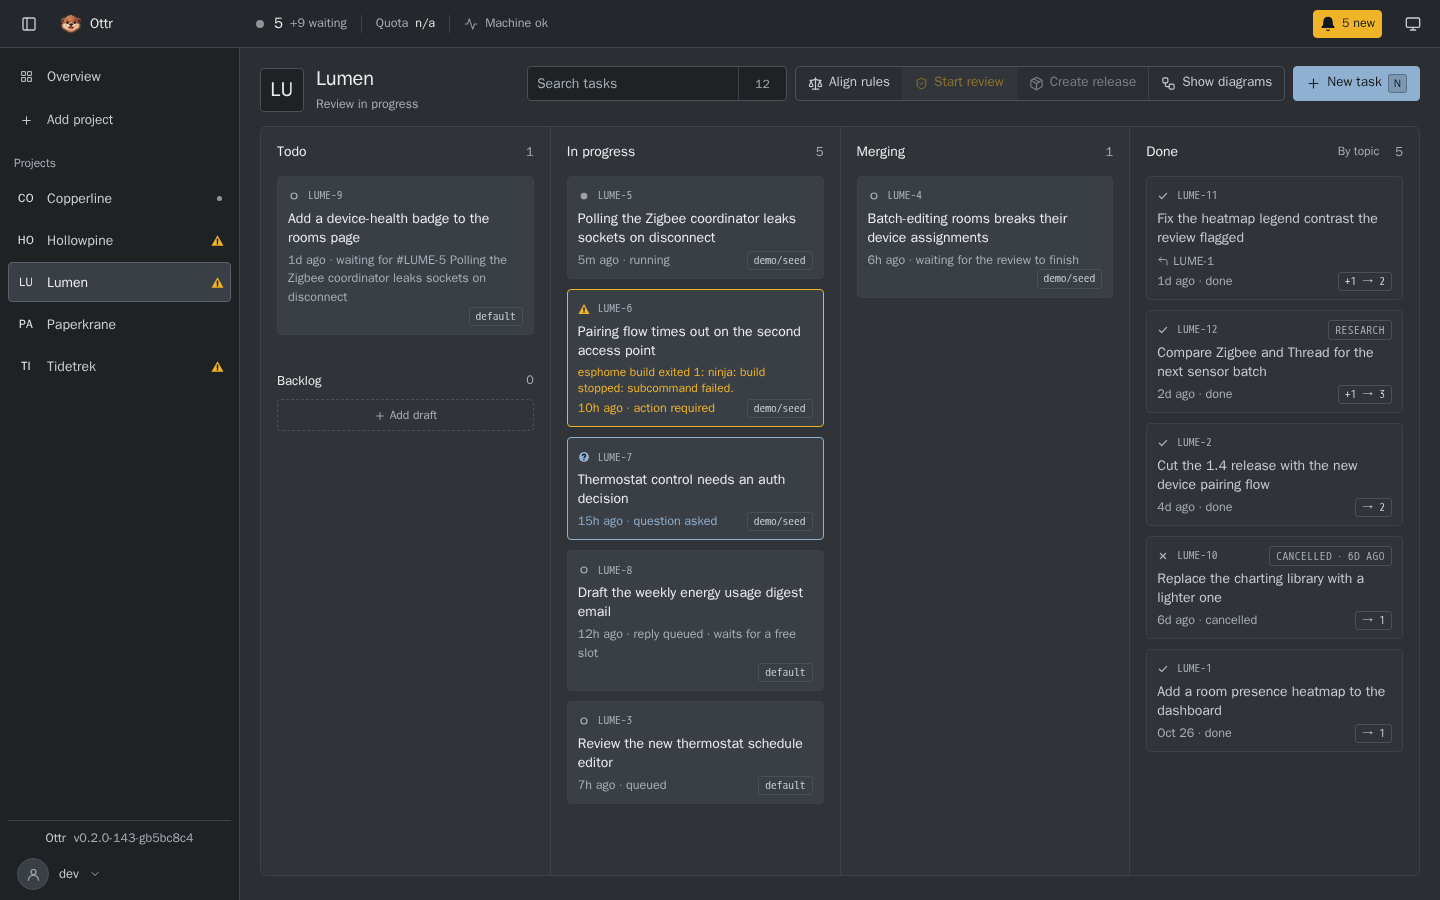
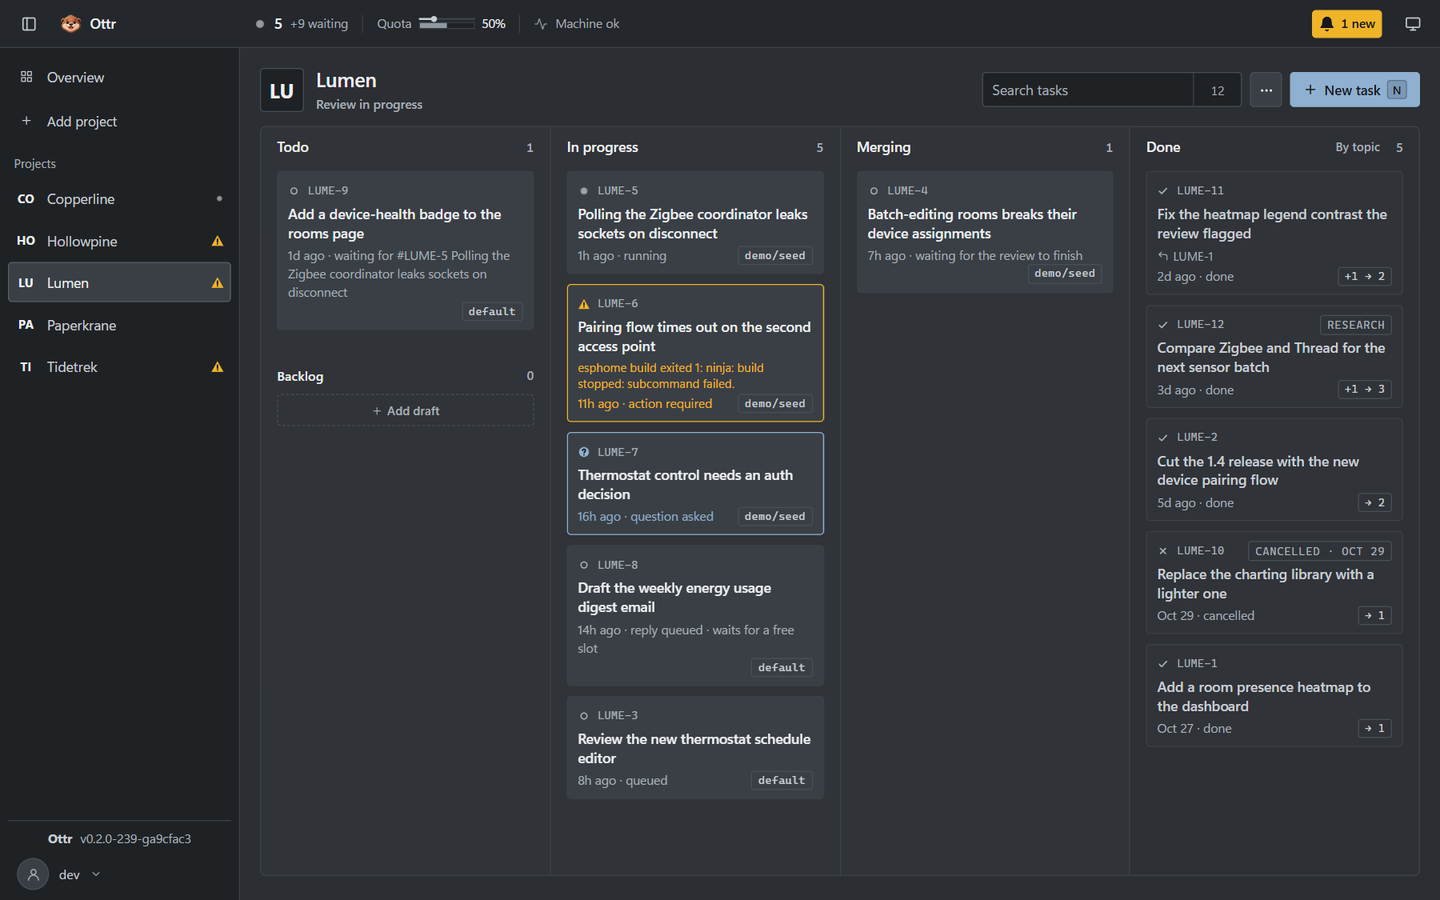
feat: move the project actions into a "more" menu
The project header holds the search, a "..." menu and New task. Start
review stays in the bar only while a review is overdue. Column titles
sit 16px from the top edge. The README screenshot shows the new header.

diff --git a/src/ui/app.tsx b/src/ui/app.tsx
@@ -2951,86 +2951,102 @@ export function ProjectBoard({
 							{q === "" ? boardTotal : `${shown.length}/${boardTotal}`}
 						</span>
 					</span>
-					<div className="seg">
-						{project.hasRules && (
+					{/* Only an overdue review stays out, as the alarm nudge; every other action waits in the menu. */}
+					{project.archReview?.due && !project.archReview.running && (
+						<button
+							type="button"
+							className="arch-start"
+							title="Pick a model and create a task that reviews the whole repo, the same review a release runs"
+							onClick={() => setShowReview(true)}
+						>
+							<Icon name="shield-check" size={13} />
+							Start review
+						</button>
+					)}
+					{(project.hasRules || !project.gitless) && (
+						<>
 							<button
 								type="button"
-								className="ghost"
-								aria-label="Align rules"
-								onClick={async () =>
-									(await confirmDialog(
-										"Align rules? This creates a task that fixes AGENTS.md rules that contradict the tracker's pipeline.",
-										{ ok: "Create task" },
-									)) && interview("/interview", { fix: true })
-								}
-								title="Fix AGENTS.md rules that contradict the tracker's pipeline (release-after-commit and the like)"
+								className="project-more"
+								popoverTarget="project-more"
+								aria-label="More project actions"
+								title="More project actions"
 							>
-								<Icon name="scale" />
-								<span className="seg-label">Align rules</span>
+								<Icon name="more" />
 							</button>
-						)}
-						{project.archReview?.due || project.archReview?.running ? (
-							<button
-								type="button"
-								className="arch-start"
-								aria-label="Start review"
-								disabled={project.archReview.running}
-								title={
-									project.archReview.running
-										? "A review is still open: one review at a time"
-										: "Pick a model and create a task that reviews the whole repo, the same review a release runs"
-								}
-								onClick={() => setShowReview(true)}
+							{/* biome-ignore lint/a11y/useKeyWithClickEvents lint/a11y/noStaticElementInteractions: the items are buttons; a click on one runs it, then this closes the menu */}
+							<div
+								id="project-more"
+								popover="auto"
+								className="project-menu"
+								onClick={(e) => e.currentTarget.hidePopover()}
 							>
-								<Icon name="shield-check" size={13} />
-								<span className="seg-label">Start review</span>
-							</button>
-						) : (
-							project.archReview !== null &&
-							project.archReview.delta > 0 && (
-								<button
-									type="button"
-									className="arch-start quiet"
-									aria-label="Start review"
-									title={`${project.archReview.delta} commits on ${project.target} since the last review — start one early, the same review a release runs`}
-									onClick={() => setShowReview(true)}
-								>
-									<Icon name="shield-check" size={13} />
-									<span className="seg-label">Start review</span>
-								</button>
-							)
-						)}
-						{!project.gitless && (
-							<button
-								type="button"
-								className="ghost"
-								aria-label="Create release"
-								// Same guard as Review: a release runs that review (releaseBlocked).
-								disabled={project.archReview?.running}
-								onClick={() => setShowRelease(true)}
-								title={
-									project.archReview?.running
-										? "A release or review is still open: one at a time"
-										: "Release all new commits"
-								}
-							>
-								<Icon name="package" />
-								<span className="seg-label">Create release</span>
-							</button>
-						)}
-						{!project.gitless && (
-							<button
-								type="button"
-								className="ghost"
-								aria-label="Show diagrams"
-								onClick={() => setShowDiagrams(true)}
-								title="Show docs/how-it-works.md with its Mermaid diagrams, as committed on the target branch"
-							>
-								<Icon name="workflow" />
-								<span className="seg-label">Show diagrams</span>
-							</button>
-						)}
-					</div>
+								{project.hasRules && (
+									<button
+										type="button"
+										className="ghost"
+										onClick={async () =>
+											(await confirmDialog(
+												"Align rules? This creates a task that fixes AGENTS.md rules that contradict the tracker's pipeline.",
+												{ ok: "Create task" },
+											)) && interview("/interview", { fix: true })
+										}
+										title="Fix AGENTS.md rules that contradict the tracker's pipeline (release-after-commit and the like)"
+									>
+										<Icon name="scale" />
+										Align rules
+									</button>
+								)}
+								{project.archReview !== null &&
+									!(project.archReview.due && !project.archReview.running) &&
+									(project.archReview.running ||
+										project.archReview.delta > 0) && (
+										<button
+											type="button"
+											className="ghost"
+											disabled={project.archReview.running}
+											title={
+												project.archReview.running
+													? "A review is still open: one review at a time"
+													: `${project.archReview.delta} commits on ${project.target} since the last review — start one early, the same review a release runs`
+											}
+											onClick={() => setShowReview(true)}
+										>
+											<Icon name="shield-check" size={13} />
+											Start review
+										</button>
+									)}
+								{!project.gitless && (
+									<button
+										type="button"
+										className="ghost"
+										// Same guard as Review: a release runs that review (releaseBlocked).
+										disabled={project.archReview?.running}
+										onClick={() => setShowRelease(true)}
+										title={
+											project.archReview?.running
+												? "A release or review is still open: one at a time"
+												: "Release all new commits"
+										}
+									>
+										<Icon name="package" />
+										Create release
+									</button>
+								)}
+								{!project.gitless && (
+									<button
+										type="button"
+										className="ghost"
+										onClick={() => setShowDiagrams(true)}
+										title="Show docs/how-it-works.md with its Mermaid diagrams, as committed on the target branch"
+									>
+										<Icon name="workflow" />
+										Show diagrams
+									</button>
+								)}
+							</div>
+						</>
+					)}
 					{!project.gitless && (
 						<button
 							type="button"

diff --git a/src/ui/app.css b/src/ui/app.css
@@ -1851,7 +1851,7 @@ button.notif-link {
 }
 .project-head {
 	display: flex;
-	align-items: flex-start;
+	align-items: center; /* the actions sit on the name block's middle line */
 	flex-wrap: wrap; /* a narrow board puts the actions under the name, never crushes it */
 	justify-content: space-between;
 	gap: 16px;
@@ -2063,51 +2063,57 @@ button.notif-link {
 	color: var(--dim);
 	font-weight: 600;
 }
-/* Header actions join into one bordered toolbar unit: inner 1px dividers share the
-   edge, so the related controls read as one control. The primary New task stays
-   outside it. An empty group (gitless, no rules, no review due) disappears. */
-.project-actions .seg {
-	display: inline-flex;
-	align-items: stretch;
-	border: 1px solid var(--line);
-	border-radius: 4px;
-}
-.seg:empty {
-	display: none;
-}
-.seg button {
-	border: 0;
-	border-left: 1px solid var(--line-soft);
-	border-radius: 0;
-}
-.seg button:first-child {
-	border-left: 0;
-}
-/* The review action keeps its alarm ink inside the group; the status span in the
-   meta line next to the name carries the words. */
-.seg .arch-start {
+/* Header actions: one square "more" button opens a menu of the project's actions, so
+   the bar holds only the search, the menu and New task. An overdue review stays out
+   as the one alarm nudge; the status span next to the name carries the words. */
+.project-actions .arch-start {
 	color: var(--alarm);
 }
-.seg .arch-start:hover {
+.project-actions .arch-start:hover {
 	color: var(--alarm);
 	background: var(--alarm-bg);
 }
-/* Below the due cap the same action is an offer, not an alarm: quiet ink. */
-.seg .arch-start.quiet {
-	color: var(--text);
+.project-more {
+	anchor-name: --project-more;
+	aspect-ratio: 1;
+	justify-content: center;
+	padding: 0;
 }
-.seg .arch-start.quiet:hover {
-	color: var(--text-strong);
+.project-menu {
+	position-anchor: --project-more;
+	position-area: bottom span-left;
+	position-try-fallbacks: flip-block;
+	inset: auto;
+	width: max-content;
+	margin: 6px 0 0;
+	padding: 4px;
+	color: var(--text);
+	background: var(--field);
+	border: 1px solid var(--line);
+	border-radius: 6px;
+	box-shadow: var(--shadow-overlay);
+}
+.project-menu:popover-open {
+	display: grid;
+	gap: 2px;
+}
+.project-menu button {
+	justify-content: flex-start;
+	background: transparent;
+	border-color: transparent;
+}
+.project-menu button:hover:not(:disabled) {
+	background: var(--card-hover);
+	border-color: var(--line-hover);
 }
 .project-actions {
 	display: flex;
 	flex-shrink: 0;
-	align-items: stretch; /* search, segment group and New task share one height and top */
+	align-items: stretch; /* search, menu and New task share one height and top */
 	gap: 8px;
 }
-/* Narrow board: the search and New task share the first line, and the four actions take
-   a 2x2 grid under them. Every action keeps its label (the Verb-Label Rule): each icon is
-   unique, but it only supports the words. */
+/* Narrow board: the actions take the full line under the name, the search takes the
+   free width. */
 @container (max-width: 960px) {
 	.project-actions {
 		flex: 1 1 100%;
@@ -2117,18 +2123,6 @@ button.notif-link {
 		flex: 1 1 auto;
 		width: auto;
 		min-width: 0;
-	}
-	.project-actions .seg {
-		order: 1;
-		display: grid;
-		grid-template-columns: repeat(2, minmax(0, 1fr));
-		flex: 1 1 100%;
-	}
-	.project-actions .seg button:nth-child(3) {
-		border-left: 0;
-	}
-	.project-actions .seg button:nth-child(n + 3) {
-		border-top: 1px solid var(--line-soft);
 	}
 	.project-actions .primary {
 		flex: none;
@@ -2333,7 +2327,9 @@ mark as text — hue only repeats what the word says (WCAG 2.1 AA, use of color 
 	align-items: center;
 	justify-content: space-between;
 	gap: 8px;
-	padding: 14px 16px 6px;
+	/* 9px, not 16px: the 21px line box adds ~5px above the glyphs, so the title's
+	   top sits 16px from the column edge, the same as the count's right gap. */
+	padding: 9px 16px 6px;
 	font-size: 14px;
 	font-weight: 600;
 	color: var(--text-strong);
@@ -6419,28 +6415,6 @@ button.log-mode[aria-pressed="true"] {
 	   lives in the lane scroller, so the last card can scroll above the button. */
 	.stage-cards {
 		padding-bottom: 72px; /* FAB 56px + 16px bottom offset */
-	}
-	/* The segments take the full line under the search. */
-	.project-actions {
-		flex-wrap: wrap;
-	}
-	/* Labelled segments as separate buttons in a 2x2 grid (a lone one spans the row);
-	   min-height 40px comes from the tier's button rule. */
-	.project-actions .seg {
-		display: grid;
-		grid-template-columns: repeat(2, minmax(0, 1fr));
-		gap: 8px;
-		border: 0; /* separate bordered buttons on touch, no group edge around them */
-		width: 100%;
-	}
-	.project-actions .seg button:only-child {
-		grid-column: 1 / -1;
-	}
-	/* :nth-child(n) outranks the joined group's inner-edge rules from the narrow tier. */
-	.project-actions .seg button:nth-child(n) {
-		flex: 1;
-		border: 1px solid var(--line);
-		border-radius: 4px;
 	}
 	/* No hardware keyboard on touch: the shortcut badge is noise and costs width. */
 	.project-actions kbd {

diff --git a/src/ui/kit.tsx b/src/ui/kit.tsx
@@ -246,6 +246,14 @@ const ICON_PATHS = {
 			<rect x="13" y="13" width="8" height="8" rx="2" />
 		</>
 	),
+	// lucide ellipsis (ISC): the project header's menu of actions
+	more: (
+		<>
+			<circle cx="12" cy="12" r="1" />
+			<circle cx="19" cy="12" r="1" />
+			<circle cx="5" cy="12" r="1" />
+		</>
+	),
 	// lucide list-checks (ISC): Open setup, a wizard of steps
 	"list-checks": (
 		<>

diff --git a/DESIGN.md b/DESIGN.md
@@ -175,10 +175,10 @@ Small radii, technical not friendly: 3px for chips and micro-badges, 4px for but
   - **Ellipsis:** only when the button asks for more input before it acts ("Add image…"). A progress label also ends in one ("Provisioning…").
   - **Destructive confirm:** the confirm button repeats the action's label ("Cancel task", "Remove project"), never "OK" or "Confirm".
 - **Icons on buttons** — sources: [NN/g, Icon Usability](https://www.nngroup.com/articles/icon-usability/), [Apple HIG Buttons](https://developer.apple.com/design/human-interface-guidelines/buttons), [Red Hat Button](https://ux.redhat.com/elements/button/guidelines/).
-  - **A visible text label by default.** Few icons are universal: close (x), search, plus for add, and the help "?". Every other icon-only button needs `aria-label` and a `title` tooltip. A tooltip does not replace a label on touch screens, because they have no hover.
+  - **A visible text label by default.** Few icons are universal: close (x), search, plus for add, the help "?", and the horizontal ellipsis "⋯" for a menu of further actions. Every other icon-only button needs `aria-label` and a `title` tooltip. A tooltip does not replace a label on touch screens, because they have no hover.
   - **One icon, one meaning.** An icon that already means one action never stands for a second action. Pick a different glyph, or show the text label.
   - **Familiar actions, familiar glyphs:** x closes, plus adds, a pencil edits, a trash can deletes, a down arrow downloads, a send arrow sends.
-  - **Icon-only only where space forces it**, for example the bar's sidebar toggle or the narrow-board segment buttons. The `aria-label` and the tooltip then carry the same words as the full label.
+  - **Icon-only only where space forces it or the glyph is universal**, for example the bar's sidebar toggle or the project header's "⋯" menu. The `aria-label` and the tooltip then carry the same words as the full label. The items inside a "⋯" menu keep their text labels.
   - **No typed symbols as icons** ("+", "×", "→" as text); use the `Icon` set in `kit.tsx`.
   - **Five-second test:** if a new glyph needs more than five seconds of thought to match its action, use text.
 
